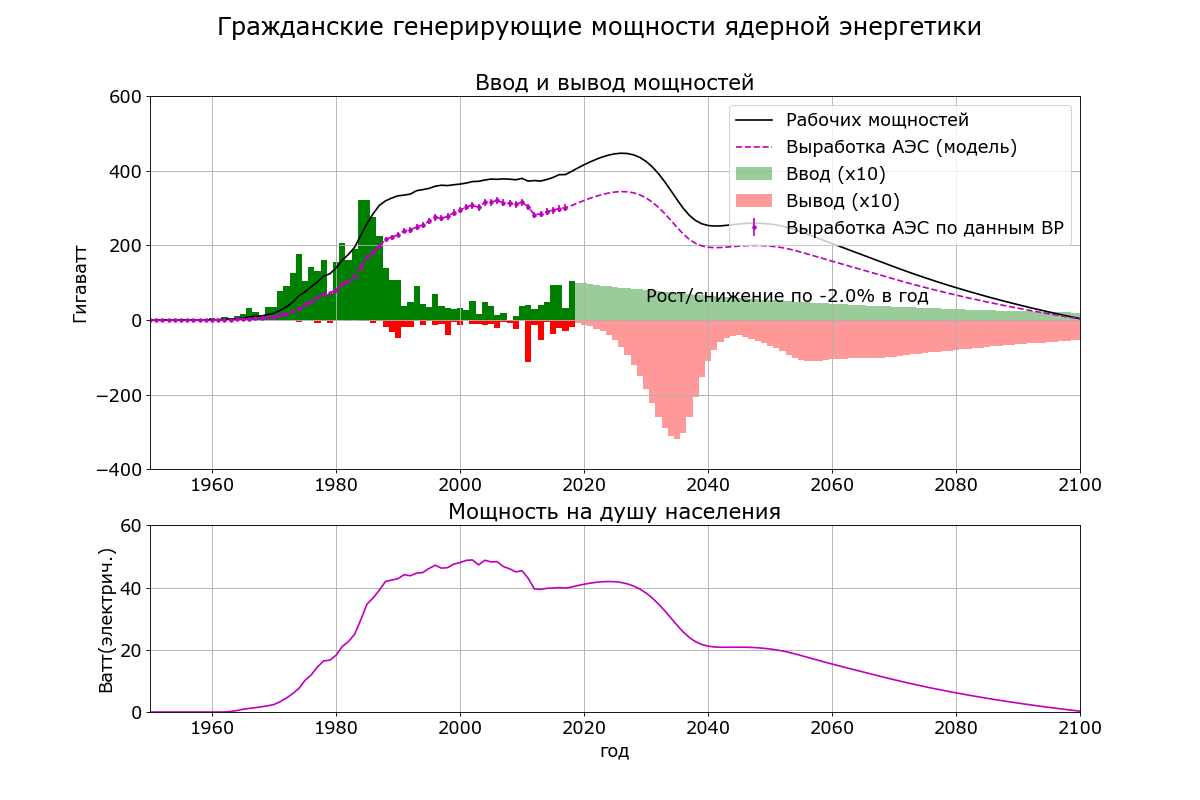
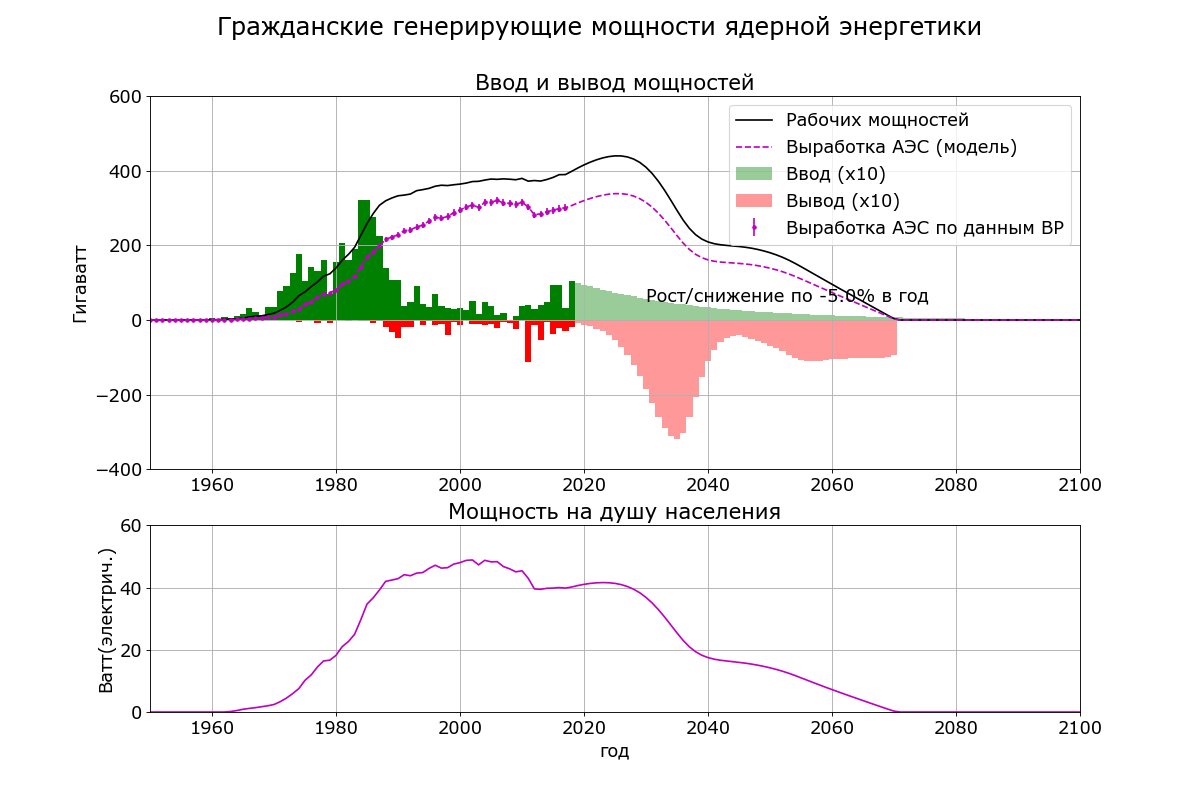
Added renewables graph

diff --git a/Chapter 12/Test_11_World_Renewable.py b/Chapter 12/Test_11_World_Renewable.py
@@ -1,0 +1,27 @@
+from Predictions import *
+
+Year,Renewable = Load_Calibration("Energy_Calibration.csv", "Year", "Renewable")
+Pop = Population().UN_Medium.GetVector(Year)
+Renewable /= Pop
+Renewable *= 1000 # Convert from toe to kg
+Renewable *= 42 # Convert from to kg to MJ
+Renewable /= 31.6 # Convert from MJ to W momentary
+Renewable *= 0.38 # BP assumed conversion efficiency
+
+x_start, x_end = 1965, 2020
+
+fig = plt.figure( figsize=(15,8))
+gs = plt.GridSpec(1, 1, height_ratios=[1]) 
+ax1 = plt.subplot(gs[0])
+
+ax1.set_title("Выработка энергии из ВИЭ (включая гидро и биомассу)")
+ax1.bar( Year, Renewable, 0.35, alpha=0.4, color="g")
+ax1.set_xlim( x_start, x_end)
+ax1.set_ylim( 0,100)
+ax1.set_xlabel("Год")
+ax1.set_ylabel("Вт на душу населения")
+ax1.grid(True)
+
+plt.savefig( ".\\Graphs\\figure_12_12.png")
+fig.show()
+

diff --git a/Chapter 12/Test_10_Nuclear_Reactors_Projection.py b/Chapter 12/Test_10_Nuclear_Reactors_Projection.py
@@ -18,7 +18,7 @@ for i in range(1000):
     MW_connected[n-1800] += w/1000
 f_start.close()
 prd = 10
-growth = 0.98
+growth = 0.95
 for i in range(219,len(years)):
     MW_connected[i] += prd
     prd *= growth
